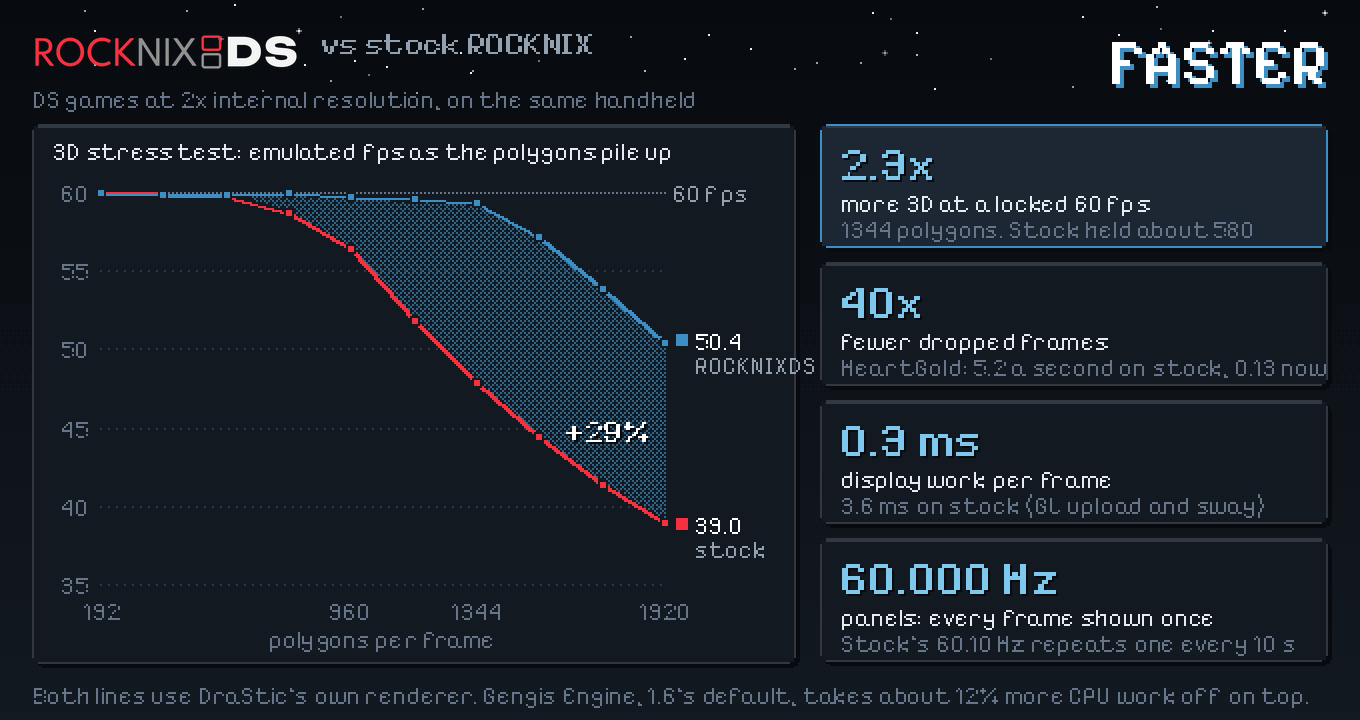
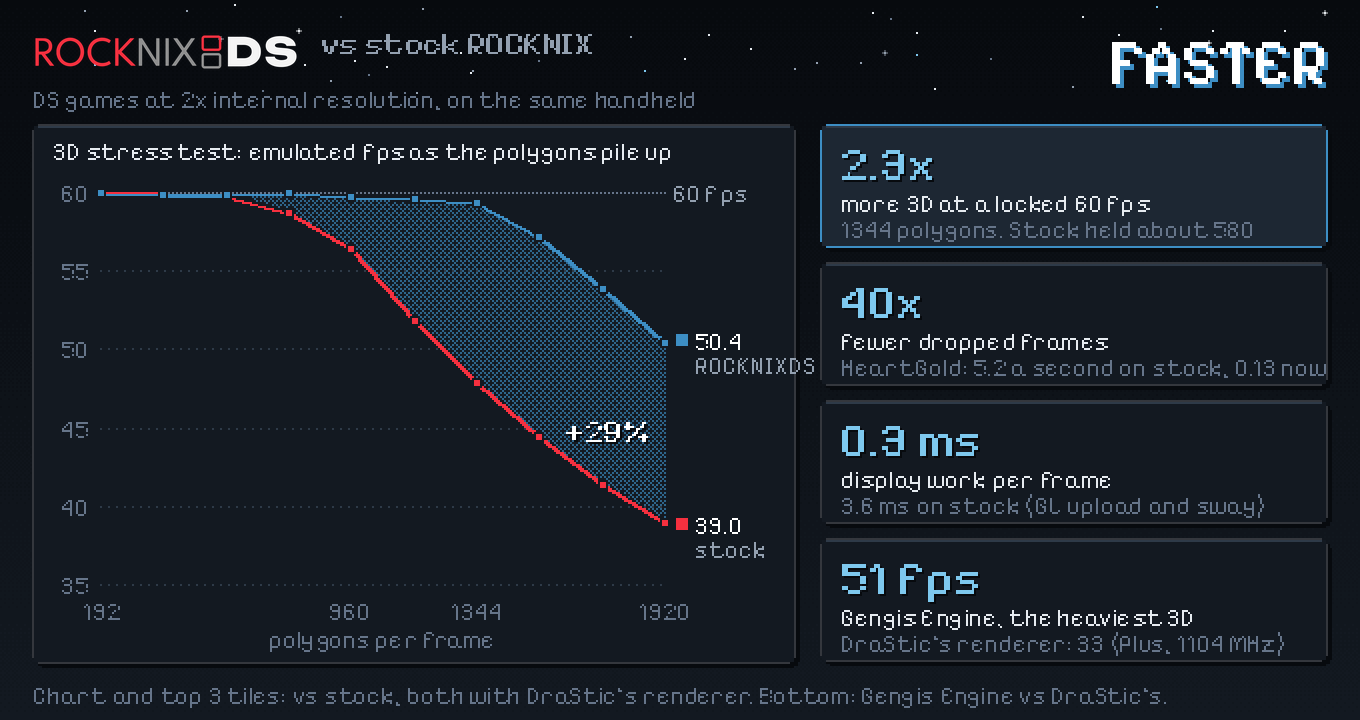
1.6 release artwork: Gengis Engine's 51 vs 33 fps in the performance tiles
Replaces the 60.000 Hz tile. The figure is Gengis Engine against DraStic's renderer on the stress test's heaviest
scene (RG DS Plus, 1104 MHz, from the 1.5.9 release notes), labelled as such; the chart and the other tiles stay
stock ROCKNIX against ROCKNIXDS.

Claude-Session: https://claude.ai/code/session_0142rUsSWPrbz11f4Ko7TYrN

Changed region(s): [[0.0309, 0.9472, 0.9574, 0.9778], [0.6176, 0.7639, 0.9574, 0.9167]]

diff --git a/docs/release-art-1.6/perf.py b/docs/release-art-1.6/perf.py
@@ -2,7 +2,8 @@
 
 Every number is from the README's "What was achieved" table and docs/img/stress-ramp.svg (the stress ROM, one
 level per 300 frames, DraStic at 2x internal resolution, the same handheld): stock ROCKNIX (sway + GL) against
-libdsflip, both with DraStic's own renderer. Gengis Engine, 1.6's default, comes on top of that and is only quoted."""
+libdsflip, both with DraStic's own renderer. The last tile is Gengis Engine against DraStic's renderer on ROCKNIXDS
+(docs/releases/v1.5.9.md: the stress test's heaviest scene, RG DS Plus at 1104 MHz), not against stock."""
 from lib import *
 
 # stress-ramp.svg's polylines, back to fps (y = 330 at 35 fps, 53.7 px per 5 fps)
@@ -81,7 +82,7 @@ TILES = [
     ("2.3x", "more 3D at a locked 60 fps", "1344 polygons. Stock held about 580"),
     ("40x", "fewer dropped frames", "HeartGold: 5.2 a second on stock, 0.13 now"),
     ("0.3 ms", "display work per frame", "3.6 ms on stock (GL upload and sway)"),
-    ("60.000 Hz", "panels: every frame shown once", "Stock's 60.10 Hz repeats one every 10 s"),
+    ("51 fps", "Gengis Engine, the heaviest 3D", "DraStic's renderer: 33 (Plus, 1104 MHz)"),
 ]
 tx, tw, th = 410, W - 410 - 16, 62
 for k, (big, l1, l2) in enumerate(TILES):
@@ -91,6 +92,7 @@ for k, (big, l1, l2) in enumerate(TILES):
     a.text(tx + 10, y + 32, l1, 12, INK, medium=True)
     a.text(tx + 10, y + 45, l2, 12, INK3)
 
-a.text(16, H - 20, "Both lines use DraStic's own renderer. Gengis Engine, 1.6's default, takes about 12% more CPU work "
-       "off on top.", 12, INK3)
+foot = "Chart and top 3 tiles: vs stock, both with DraStic's renderer. Bottom: Gengis Engine vs DraStic's."
+assert a.tlen(foot, 12) <= W - 32, a.tlen(foot, 12)
+a.text(16, H - 20, foot, 12, INK3)
 a.render(os.path.join(OUT, "performance.png"))

diff --git a/docs/releases/v1.6-page.md b/docs/releases/v1.6-page.md
@@ -24,7 +24,7 @@ Döda Kvarter.** 1.6 is one release for both handhelds, and the last big one.
 </p>
 
 <p align="center">
-  <img src="https://raw.githubusercontent.com/JorreFog/ROCKNIXDS/main/docs/img/1.6/performance.png" width="880" alt="ROCKNIXDS vs stock ROCKNIX at 2x internal resolution. 3D stress test: at 1920 polygons per frame stock ROCKNIX runs at 39.0 fps and ROCKNIXDS at 50.4 (+29%). 2.3x more 3D at a locked 60 fps (1344 polygons; stock held about 580), 40x fewer dropped frames, 0.3 ms of display work per frame instead of 3.6 ms, 60.000 Hz panels instead of 60.10">
+  <img src="https://raw.githubusercontent.com/JorreFog/ROCKNIXDS/main/docs/img/1.6/performance.png" width="880" alt="ROCKNIXDS vs stock ROCKNIX at 2x internal resolution. 3D stress test: at 1920 polygons per frame stock ROCKNIX runs at 39.0 fps and ROCKNIXDS at 50.4 (+29%). 2.3x more 3D at a locked 60 fps (1344 polygons; stock held about 580), 40x fewer dropped frames, 0.3 ms of display work per frame instead of 3.6 ms; and Gengis Engine, 1.6's default renderer, at 51 fps on the heaviest 3D where DraStic's renderer manages 33">
 </p>
 
 ## Install or upgrade
